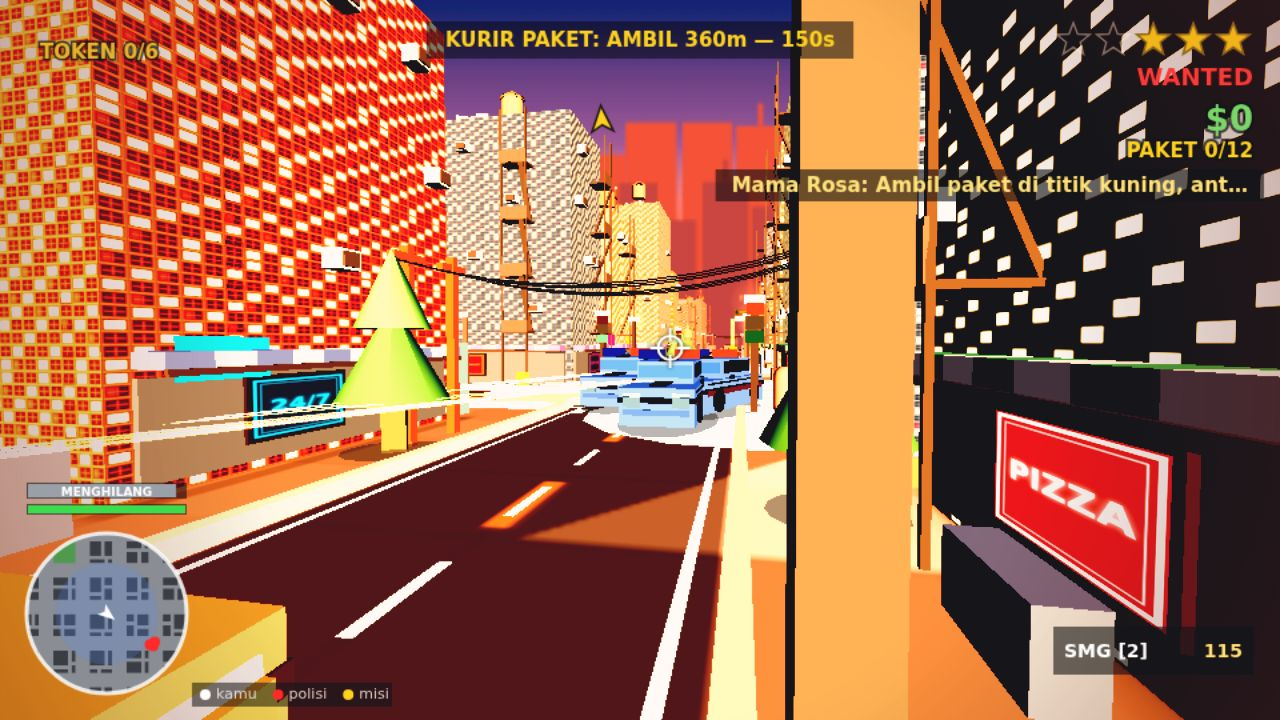
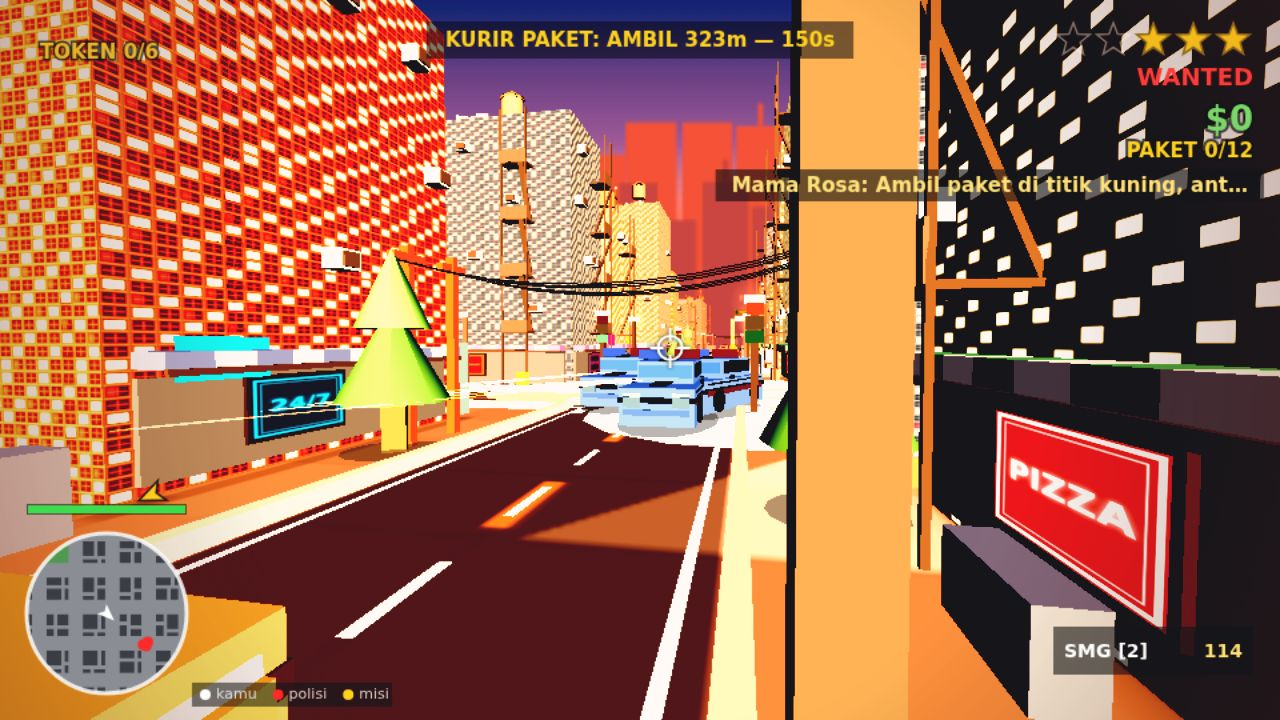
feat(v8): per-car tuning shop with persisted garage record (checkpoint)

diff --git a/game/src/mechanic.js b/game/src/mechanic.js
@@ -1,0 +1,171 @@
+// mechanic.js — bengkel tuning: beli tier mesin, rem, ban, suspensi, dan nitro per mobil
+// Efek dipasang di atas fisika vehicle.js lewat field mobil dan koreksi kecil per frame.
+import { T, tileAt } from './world.js';
+
+const GARAGE_KEY = 'sunnycity.garage.v1';
+const W = 960, H = 540;
+const MAX_TIER = 3, MENU_KEY = 'u', MAX_SERVICE_SPEED = 25;
+const BASE_PRICE = 250, TIER_PRICE_STEP = 1.8;
+const BRAKE_FORCE = 420, ENGINE_BOOST = 0.07, BRAKE_BOOST = 0.12;
+const GRIP_BOOST = 0.07, TURN_RATE = 2.4, TOP_SPEED = 320;
+const FLAT_RECOVERY = 0.5, CRASH_ABSORB = 0.12, NITRO_REGEN = 0.04;
+
+const PARTS = [
+  { id: 'engine', label: 'Mesin', base: 1.0, info: '+7% kecepatan / tier' },
+  { id: 'brake', label: 'Rem', base: 0.6, info: 'pengereman lebih kuat' },
+  { id: 'tyre', label: 'Ban', base: 0.7, info: 'cengkeraman, ban bocor pulih cepat' },
+  { id: 'suspension', label: 'Suspensi', base: 0.8, info: 'kurangi kerusakan tabrakan' },
+  { id: 'nitro', label: 'Nitro', base: 1.2, info: 'tangki isi ulang lebih cepat' },
+];
+
+const emptyRecord = () => Object.fromEntries(PARTS.map((p) => [p.id, 0]));
+const clampTier = (v) => (Number.isFinite(v) ? Math.max(0, Math.min(MAX_TIER, Math.floor(v))) : 0);
+
+function loadGarage() {
+  try {
+    const data = JSON.parse(localStorage.getItem(GARAGE_KEY) || '{}');
+    const out = {};
+    if (data && typeof data === 'object') {
+      for (const [key, rec] of Object.entries(data)) {
+        out[key] = emptyRecord();
+        for (const p of PARTS) out[key][p.id] = clampTier(rec && rec[p.id]);
+      }
+    }
+    return out;
+  } catch (e) { return {}; }
+}
+
+function persist(mechanic) {
+  try { localStorage.setItem(GARAGE_KEY, JSON.stringify(mechanic.garage)); } catch (e) { /* storage tidak tersedia */ }
+}
+
+export function tierPrice(part, tier) {
+  return Math.round(BASE_PRICE * part.base * Math.pow(TIER_PRICE_STEP, tier) / 10) * 10;
+}
+
+function carKey(mechanic, car) {
+  const i = mechanic.world.cars.indexOf(car);
+  return i >= 0 ? 'car' + i : null;
+}
+
+function recordFor(mechanic, car) {
+  const key = carKey(mechanic, car);
+  if (!key) return null;
+  if (!mechanic.garage[key]) mechanic.garage[key] = emptyRecord();
+  return mechanic.garage[key];
+}
+
+export function createMechanic(ctx) {
+  const { world, ui, gfx, keys } = ctx;
+  return {
+    world, ui, gfx, keys,
+    garage: loadGarage(),
+    open: false,
+    idx: 0,
+    lastHp: null,
+    lastCar: null,
+    toggle(player) {
+      if (this.open) { this.open = false; return true; }
+      const car = player.car;
+      if (!car) { ui.toast('Masuk mobil dulu untuk tuning'); return true; }
+      if (Math.abs(car.speed) > MAX_SERVICE_SPEED) { ui.toast('Hentikan mobil untuk tuning'); return true; }
+      this.open = true; this.idx = 0;
+      return true;
+    },
+    buy(player) {
+      const car = player.car, rec = car && recordFor(this, car);
+      if (!rec) return false;
+      const part = PARTS[this.idx], tier = rec[part.id];
+      if (tier >= MAX_TIER) { ui.toast(part.label + ' sudah maksimal'); return false; }
+      const price = tierPrice(part, tier);
+      if (ui.money < price) { ui.toast('Uang kurang untuk ' + part.label); return false; }
+      ui.addMoney(-price);
+      rec[part.id] = tier + 1;
+      persist(this);
+      ui.toast(part.label + ' naik ke tier ' + (tier + 1));
+      return true;
+    },
+    // Mengembalikan true bila tombol dipakai menu (supaya main.js tidak meneruskannya).
+    onKey(k, player) {
+      if (k === MENU_KEY) return this.toggle(player);
+      if (!this.open) return false;
+      if (k === 'escape') this.open = false;
+      else if (k === 'arrowup' || k === 'w') this.idx = (this.idx + PARTS.length - 1) % PARTS.length;
+      else if (k === 'arrowdown' || k === 's') this.idx = (this.idx + 1) % PARTS.length;
+      else if (k === 'enter' || k === 'e') this.buy(player);
+      return true;
+    },
+  };
+}
+
+function applyTuning(mechanic, car, rec, dt) {
+  const keys = mechanic.keys;
+  const throttle = keys.has('w') || keys.has('arrowup');
+  const reverse = keys.has('s') || keys.has('arrowdown');
+  const steer = (keys.has('d') || keys.has('arrowright') ? 1 : 0) - (keys.has('a') || keys.has('arrowleft') ? 1 : 0);
+
+  if (rec.engine > 0 && throttle && car.speed > 0) {
+    const dist = car.speed * ENGINE_BOOST * rec.engine * dt;
+    const nx = car.x + Math.cos(car.angle) * dist, ny = car.y + Math.sin(car.angle) * dist;
+    if (tileAt(mechanic.world, nx, ny) !== T.BUILDING) { car.x = nx; car.y = ny; }
+  }
+  if (rec.brake > 0 && reverse && car.speed > 0) {
+    car.speed = Math.max(0, car.speed - BRAKE_FORCE * BRAKE_BOOST * rec.brake * dt);
+  }
+  if (rec.tyre > 0) {
+    car.angle += steer * TURN_RATE * GRIP_BOOST * rec.tyre * dt * (car.speed / TOP_SPEED) * Math.sign(car.speed);
+    if (car.flatT > 0) car.flatT -= FLAT_RECOVERY * rec.tyre * dt;
+  }
+  if (rec.suspension > 0 && mechanic.lastCar === car && mechanic.lastHp != null && (car.hp ?? 100) < mechanic.lastHp) {
+    const lost = mechanic.lastHp - car.hp;
+    car.hp = Math.min(mechanic.lastHp, car.hp + lost * CRASH_ABSORB * rec.suspension);
+  }
+  if (rec.nitro > 0) {
+    car.nitro = true;
+    if (!Number.isFinite(car.nitroFuel)) car.nitroFuel = 1;
+    if (!(keys.has('shift') && throttle)) car.nitroFuel = Math.min(1, car.nitroFuel + NITRO_REGEN * rec.nitro * dt);
+  }
+}
+
+function drawMenu(mechanic, car, rec) {
+  const g = mechanic.gfx.hud, ui = mechanic.ui;
+  if (!g) return;
+  const x = W / 2 - 230, y = 110, w = 460, rowH = 54;
+  g.save();
+  g.fillStyle = 'rgba(8,8,14,0.85)'; g.fillRect(x, y, w, 80 + PARTS.length * rowH + 30);
+  g.textAlign = 'center'; g.font = 'bold 26px sans-serif'; g.fillStyle = '#ffb300';
+  g.fillText('BENGKEL TUNING', W / 2, y + 36);
+  g.font = '15px sans-serif'; g.fillStyle = '#ddd';
+  g.fillText('Saldo $' + ui.money + '  \u00B7  Kondisi ' + Math.round(car.hp ?? 100) + '%', W / 2, y + 60);
+  PARTS.forEach((p, i) => {
+    const ry = y + 80 + i * rowH, tier = rec[p.id], maxed = tier >= MAX_TIER;
+    g.fillStyle = i === mechanic.idx ? 'rgba(255,179,0,0.35)' : 'rgba(40,40,56,0.95)';
+    g.fillRect(x + 12, ry, w - 24, rowH - 6);
+    g.textAlign = 'left'; g.font = 'bold 17px sans-serif'; g.fillStyle = '#fff';
+    g.fillText(p.label + '  ' + '\u25A0'.repeat(tier) + '\u25A1'.repeat(MAX_TIER - tier), x + 24, ry + 22);
+    g.font = '12px sans-serif'; g.fillStyle = '#aaa'; g.fillText(p.info, x + 24, ry + 40);
+    g.textAlign = 'right'; g.font = 'bold 17px sans-serif';
+    const price = tierPrice(p, tier);
+    g.fillStyle = maxed ? '#7fe3ff' : ui.money >= price ? '#7bd66b' : '#ff6a5a';
+    g.fillText(maxed ? 'MAKS' : '$' + price, x + w - 24, ry + 30);
+  });
+  g.textAlign = 'center'; g.font = '13px sans-serif'; g.fillStyle = '#aaa';
+  g.fillText('Panah: pilih \u00B7 Enter/E: beli \u00B7 ESC/U: tutup', W / 2, y + 80 + PARTS.length * rowH + 16);
+  g.restore();
+}
+
+export function updateMechanic(mechanic, dt, player) {
+  const car = player.car;
+  if (!car) {
+    mechanic.open = false; mechanic.lastCar = null; mechanic.lastHp = null;
+    return;
+  }
+  const rec = recordFor(mechanic, car);
+  if (rec) applyTuning(mechanic, car, rec, dt);
+  mechanic.lastCar = car;
+  mechanic.lastHp = car.hp ?? 100;
+  if (mechanic.open && rec) {
+    if (Math.abs(car.speed) > MAX_SERVICE_SPEED) mechanic.open = false;
+    else drawMenu(mechanic, car, rec);
+  }
+}

diff --git a/game/src/main.js b/game/src/main.js
@@ -23,6 +23,7 @@ import { createStats, updateStats } from './stats.js';
 import { createTaxi, updateTaxi } from './taxi.js';
 import { createPhoto, updatePhoto } from './photo.js';
 import { createRadio, updateRadio } from './radio.js';
+import { createMechanic, updateMechanic } from './mechanic.js';
 
 const canvas = document.getElementById('game');
 const world = createWorld();
@@ -76,6 +77,7 @@ const heists = createHeists({ world, ui, audio, gfx, player });
 const races = createRaces({ world, ui, audio, gfx, player });
 const taxi = createTaxi({ world, ui, audio, gfx, player });
 const radio = createRadio({ ui, audio, gfx });
+const mechanic = createMechanic({ world, ui, gfx, keys });
 const objectiveView = {
   get markers() { return heists.active ? heists.markers : races.active ? races.markers : taxi.active ? taxi.markers : missions.markers; },
   get target() { return heists.active ? heists.target : races.active ? races.target : taxi.active ? taxi.target : missions.target; },
@@ -217,6 +219,9 @@ addEventListener('keydown', (e) => {
     if (k === 'escape') { economy.cancel(); e.preventDefault(); return; }
     if (k === 'e' || k === 'enter') { if (!e.repeat) economy.confirm(); e.preventDefault(); return; }
   }
+  if (ui.state === 'PLAYING' && (mechanic.open || k === 'u') && !e.repeat) {
+    if (mechanic.onKey(k, player)) { e.preventDefault(); return; }
+  } else if (mechanic.open && ui.state === 'PLAYING') { e.preventDefault(); return; }
   if (k === 'r' && !e.repeat && ui.state === 'PLAYING' && player.car) {
     radio.next();
   }
@@ -290,6 +295,7 @@ function frame(now) {
     }
   }
   else if (!interiors.update(dt, input)) updatePlayer(player, input, world, dt);
+  updateMechanic(mechanic, dt, player);
   extras.update(dt);
   setRadioKey();
   updateTraffic(world, dt);
@@ -345,5 +351,5 @@ if (new URLSearchParams(location.search).has('shot')) {
   try { startGame(); } catch (err) { console.warn('shot autostart audio:', err); if (!missions.active) missions.next(); }
 }
 requestAnimationFrame(frame);
-window.__game = { interiors, combat, ui, audio, world, player, police, peds, missions, keys, gfx, cars: world.cars, heists, races, economy, stats, taxi, radio };
+window.__game = { interiors, combat, ui, audio, world, player, police, peds, missions, keys, gfx, cars: world.cars, heists, races, economy, stats, taxi, radio, mechanic };
 setInterval(persistSaveCounters, 20000);
